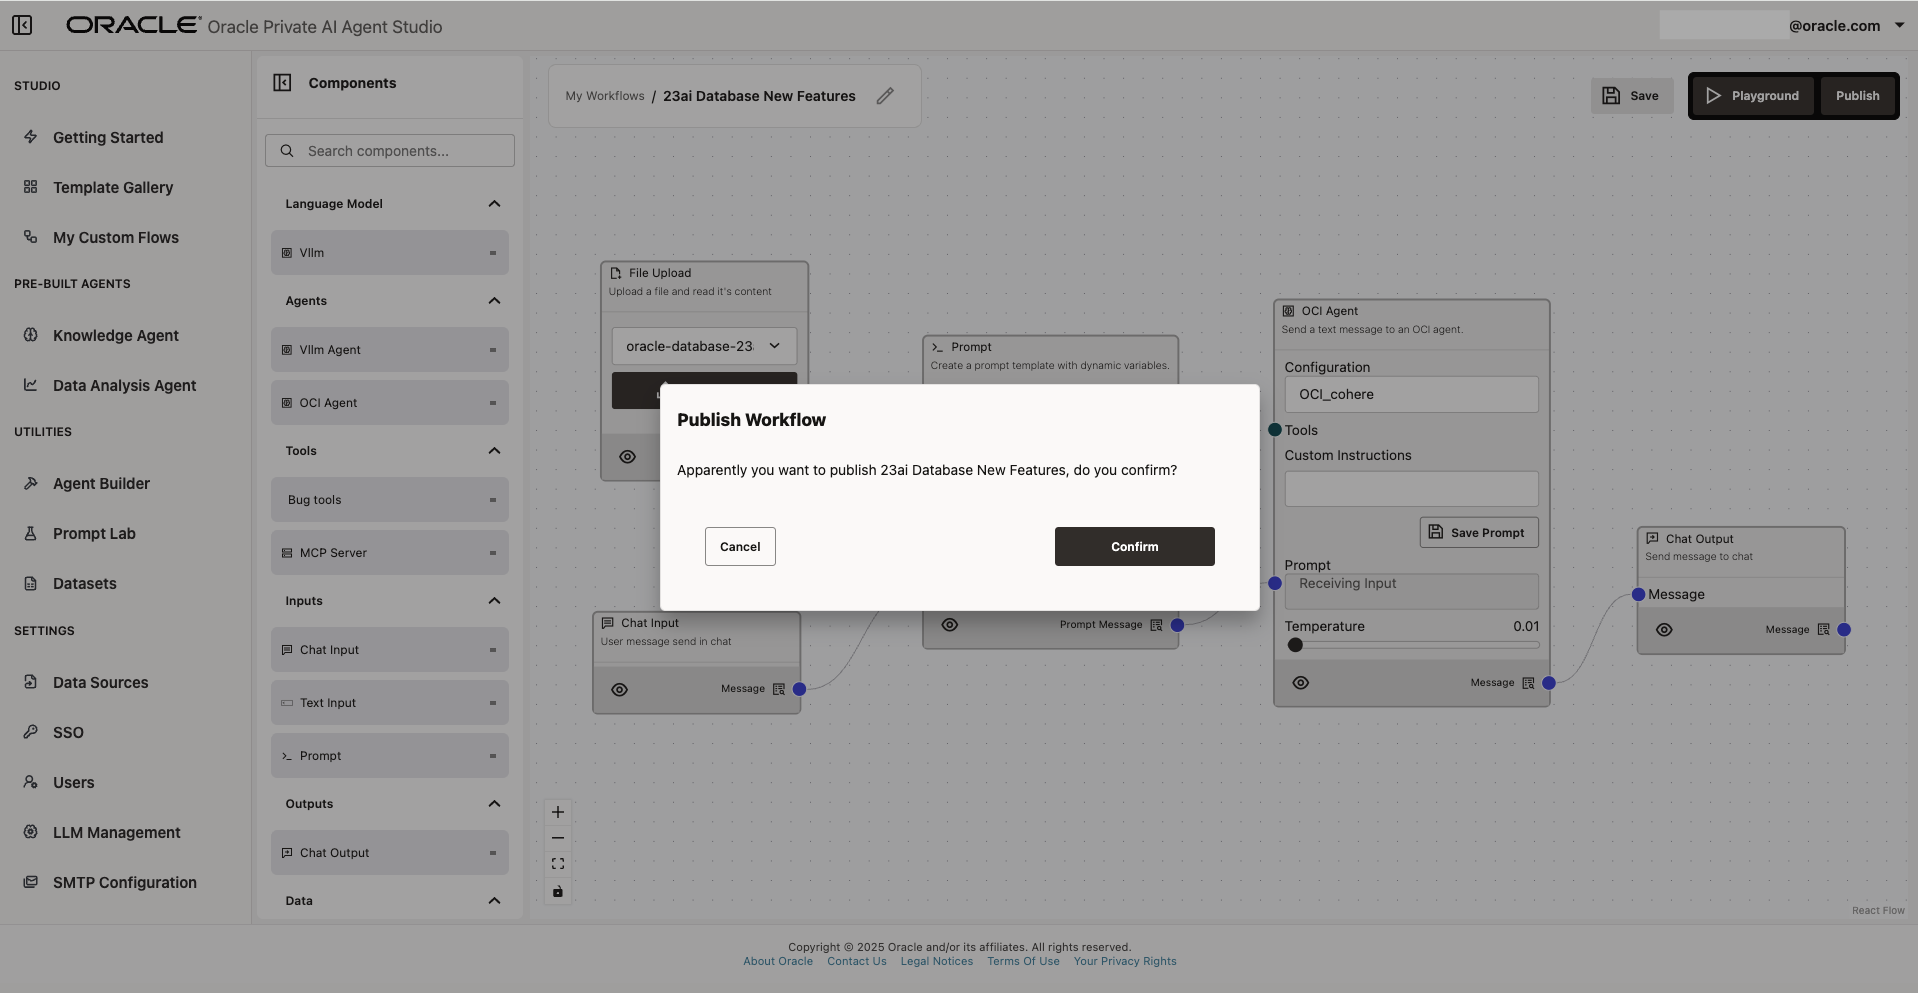
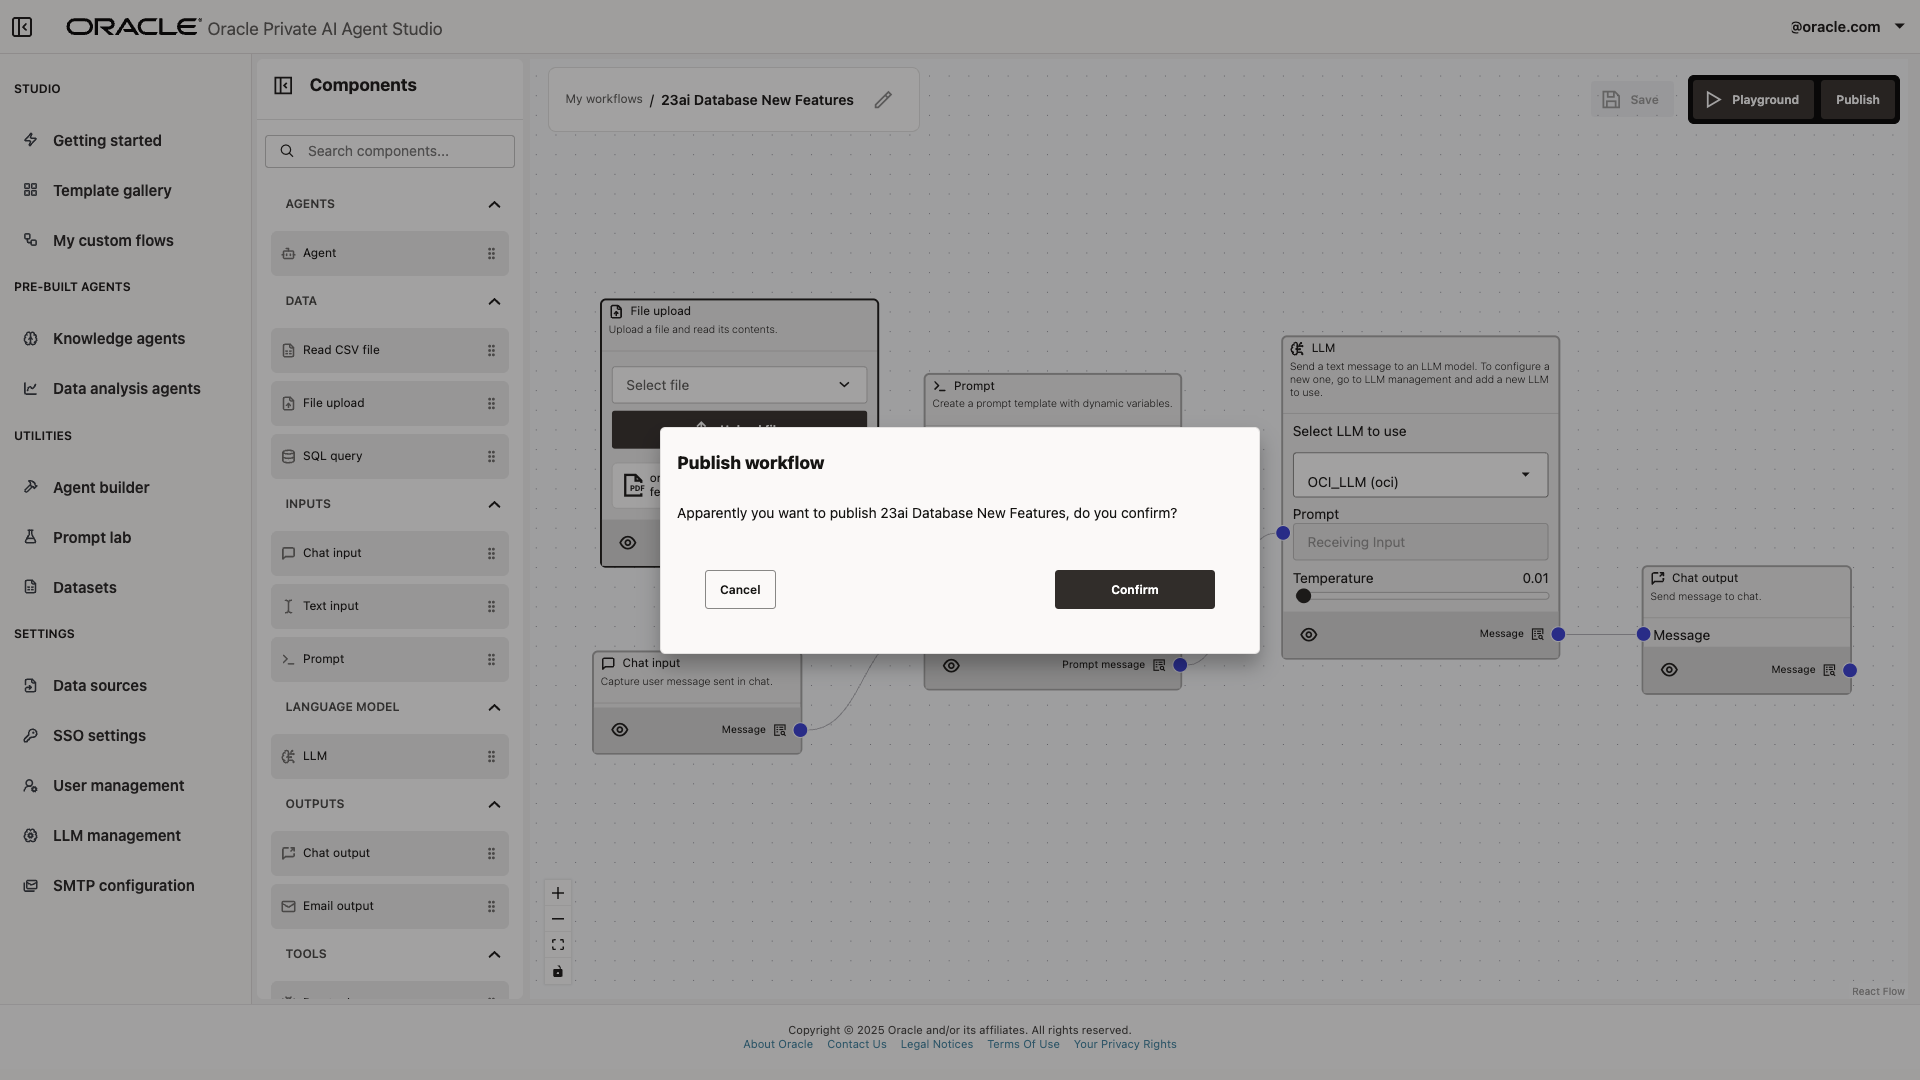
screenshots updated to reflect UI changes

diff --git a/from-zero-to-AI-agent-hero-with-private-ai-agent-studio/lab7/lab7.md b/from-zero-to-AI-agent-hero-with-private-ai-agent-studio/lab7/lab7.md
@@ -27,7 +27,7 @@ The Template Gallery offers a curated collection of pre-built agentic templates 
 
 Templates may include workflows for tasks such as document summarization, meeting note extraction, content transformation, and more. You can browse, search, and import any template that fits your needs, customizing them as needed with minimal configuration.
 
-![Main dashboard of Oracle Private AI Agent Studio with the left navigation panel expanded. The Template Gallery option under the Studio section is highlighted, and the Get Started page is displayed with pre-built agent options and a quick start guide on the right.](images/left_panel_template_gallery.png)
+![Main dashboard of Oracle Private AI Agent Studio with the left navigation panel expanded. The Template Gallery option under the Studio section is highlighted, and the Get Started page is displayed with pre-built agent options and a quick start guide on the right.](images/get_started_template_gallery.png)
 
 1. Open Oracle Private AI Agent Studio and log in. In the sidebar, click **Template Gallery**.
 
@@ -43,24 +43,17 @@ Templates may include workflows for tasks such as document summarization, meetin
 
     ![Edit Details modal dialog open in Agent Builder, showing fields to edit the name and description of the custom flow. The background displays the workflow editor with nodes and connections, while the modal has options to cancel or save changes.](images/edit_details.png)
 
-4. You are also able modify the workflow components to suit your needs. For instance, you can remove a node by selecting it and pressing Delete, and you can add a new node (such as an LLM or agent) by dragging it from the palette and configuring it as needed.
+4. When you import a new workflow, make sure to select your desired LLM provider. You can add different LLM providers on the LLM management section.
 
-    ![Agent Builder workflow for pdf-to-blog showing the Vllm node highlighted with a red 'delete' label, indicating it is selected for deletion. Other nodes include File Upload, Prompt, Chat Input, and Chat Output, all connected in sequence.](images/pdf_to_blog_4a.png)
+    ![Agent Builder workflow for pdf-to-blog showing a dropdown menu with an option labeled as OCI_LLM (oci).](images/select_LLM.png)
 
-    ![Agent Builder workflow for pdf-to-blog showing an arrow from the OCI Agent component in the side panel to a newly added OCI Agent node in the workspace. The node's configuration field is highlighted, and it is connected in sequence after the Prompt node, replacing the previous Vllm node.](images/pdf_to_blog_4b.png)
+5. Some templates are designed to process files as inputs, such as PDF files. If the template requires it, use the **Upload File** function to select your file.
 
-    For any workflow, make sure you supply an LLM configuration name that matches one set up in your environment.
-    Connect nodes by dragging from the output of one node to the input of another as instructed.
+    ![Agent Builder workflow showing the File Upload node's, with a PDF file highlighted. The workflow connects File Upload and Chat Input nodes to a Prompt node, which links to an OCI Agent node and then to a Chat Output node.](images/select_placeholder.png)
 
-    ![Agent Builder workflow showing the nodes being connected. The output of the Prompt node is actively connected to the Prompt input of the OCI Agent node, indicated by highlighted connection points and an arrow. Other nodes include File Upload, Chat Input, and Chat Output.](images/pdf_to_blog_4c.png)
+    You are also able modify the workflow components to suit your needs. For instance, you can remove a node by selecting it and pressing Delete, and you can add a new node by dragging it from the palette and configuring it as needed.
 
-    ![Agent Builder workflow for pdf-to-blog structure showing fully connected nodes: File Upload and Chat Input feed into the Prompt node, which connects to the OCI Agent node, and then to the Chat Output node. All nodes are configured and linked in a sequential flow.](images/pdf_to_blog_4d.png)
-
-5. Some templates are designed to process files as inputs, such as PDF files. If the template requires it, use the **Upload File** function, select your file, and choose it from the dropdown.
-
-    ![Agent Builder workflow showing the File Upload node's dropdown expanded to select a file, with a PDF file highlighted. The workflow connects File Upload and Chat Input nodes to a Prompt node, which links to an OCI Agent node and then to a Chat Output node.](images/select_placeholder.png)
-
-6. Click Publish to deploy your customized workflow.
+6. Click **Save** and then **Publish** to deploy your customized workflow.
 
     ![Publish Workflow confirmation dialog open in Agent Builder, asking the user to confirm publishing the '23ai Database New Features' workflow. The dialog has Cancel and Confirm buttons, overlaying the workflow editor with connected nodes for File Upload, Prompt, OCI Agent, and Chat Output.](images/publish_workflow.png)
 
@@ -108,7 +101,7 @@ In this task you will create a simple workflow to gain hands-on experience with 
 1. **Open Oracle Private AI Agent Studio and log in.**
     In the sidebar, click **Agent Builder**.
 
-    ![Main dashboard of Oracle Private AI Agent Studio with the left navigation panel expanded. The Agent Builder option under the Utilities section is highlighted, and the Get Started page is displayed with pre-built agent options and a quick start guide on the right.](images/left_panel_agent_builder.png)
+    ![Main dashboard of Oracle Private AI Agent Studio with the left navigation panel expanded. The Agent Builder option under the Utilities section is highlighted, and the Get Started page is displayed with pre-built agent options and a quick start guide on the right.](images/get_started_agent_builder.png)
 
     ![Agent Builder screen showing a components panel on the left with categories such as Language Model, Agents, Tools, Inputs, Outputs, and Data. The main workspace area is blank, and 'Playground' and 'Publish' buttons are in the upper right corner.](images/agent_builder.png)
 
@@ -116,7 +109,7 @@ In this task you will create a simple workflow to gain hands-on experience with 
 
     On the left side of the canvas, you will find the available nodes. Drag an Agent node (such as OCI Agent or vLLM Agent) onto the canvas. Configure it with an LLM configuration name from your environment.
 
-    ![Agent Builder screen showing step 2, adding an OCI Agent node. A red arrow curves from the OCI Agent option in the components panel on the left to a newly added OCI Agent node on the workspace. The node configuration panel displays fields for configuration, tools, custom instructions, prompt, and temperature.](images/step2.png)
+    ![Agent Builder screen showing step 2, adding an Agent node. A red arrow curves from the  Agent option in the components panel on the left to a newly added Agent node on the workspace. The node configuration panel displays fields for configuration, tools, custom instructions, prompt, and temperature.](images/step2.png)
 
     On the top left corner of the canvas type a name for the workflow, such as "Scientific Paper Summarizer".
 
@@ -124,13 +117,13 @@ In this task you will create a simple workflow to gain hands-on experience with 
 
     Repeat the process and add a **Chat Output** node. On the Chat Output node, click on the blue edge and drag it until it connects with the right edge of the OCI/vLLM Agent node edge, as shown below.
 
-    ![Agent Builder screen showing step 3, adding and connecting a Chat Output node to the workflow. A red arrow connects the Message output of the OCI Agent node to the Message input of the Chat Output node, with both nodes visible and highlighted connection points.](images/step3a.png)
+    ![Agent Builder screen showing step 3, adding and connecting a Chat Output node to the workflow. A red arrow connects the Message output of the Agent node to the Message input of the Chat Output node, with both nodes visible and highlighted connection points.](images/step3a.png)
 
     If you need to remove a connection between two nodes, simply click the connecting line and press Delete on you keyboard.
 
     Add a **Chat Input** node as well, but do not connect it for now.
 
-    ![Agent Builder screen showing an arrow from the Chat Input component in the left panel to a newly placed Chat Input node in the workspace. The workflow contains three nodes: Chat Input, OCI Agent, and Chat Output, with the OCI Agent connected to the Chat Output.](images/step3b.png)
+    ![Agent Builder screen showing an arrow from the Chat Input component in the left panel to a newly placed Chat Input node in the workspace. The workflow contains three nodes: Chat Input, Agent, and Chat Output, with the Agent connected to the Chat Output.](images/step3b.png)
 
 4. Enrich prompts.
 
@@ -141,15 +134,15 @@ In this task you will create a simple workflow to gain hands-on experience with 
     >Given the provided text, extract all key information and important details. Use this information to automatically generate a easy to understand summary.
     Provided text : {{user_input}}
 
-    ![Agent Builder screen showing step 4a, adding a Prompt node to the workflow. A red arrow points from the Prompt component in the left panel to a newly created Prompt node placed between the Chat Input and OCI Agent nodes in the workspace. The Prompt node features a template input and save button.](images/step4a.png)
+    ![Agent Builder screen showing step 4a, adding a Prompt node to the workflow. A red arrow points from the Prompt component in the left panel to a newly created Prompt node placed between the Chat Input and Agent nodes in the workspace. The Prompt node features a template input and save button.](images/step4a.png)
 
-    ![Agent Builder screen showing step 4b, with a Prompt node added between the Chat Input and OCI Agent nodes. The Prompt node contains a filled-in template field describing instructions to generate an easy-to-understand summary, including a variable for user input.](images/step4b.png)
+    ![Agent Builder screen showing step 4b, with a Prompt node added between the Chat Input and Agent nodes. The Prompt node contains a filled-in template field describing instructions to generate an easy-to-understand summary, including a variable for user input.](images/step4b.png)
 
-    ![Agent Builder screen showing step 4c, a canvas displaying a workflow with File Upload, Prompt, OCI Agent, and Chat Output nodes. The Prompt node receives input from both the File Upload and Chat Input nodes, and its output is connected to the Prompt input of the OCI Agent. Path connections and active connection points are highlighted in the workflow.](images/step4c.png)
+    ![Agent Builder screen showing step 4c, a canvas displaying a workflow with File Upload, Prompt, Agent, and Chat Output nodes. The Prompt node receives input from both the File Upload and Chat Input nodes, and its output is connected to the Prompt input of the Agent. Path connections and active connection points are highlighted in the workflow.](images/step4c.png)
 
     Connect the nodes as illustrated so that the Chat Input feeds into the Prompt, which feeds into the agent node, which connects to the Chat Output.
 
-    ![Agent Builder screen showing step 4d, with the Chat Input node connected to the Prompt node, the Prompt node connected to the OCI Agent node, and the OCI Agent node connected to the Chat Output node. Arrows indicate the workflow sequence through all nodes, and the Prompt template field is populated with summary instructions and a user input variable.](images/step4d.png)
+    ![Agent Builder screen showing step 4d, with the Chat Input node connected to the Prompt node, the Prompt node connected to the Agent node, and the Agent node connected to the Chat Output node. Arrows indicate the workflow sequence through all nodes, and the Prompt template field is populated with summary instructions and a user input variable.](images/step4d.png)
 
 5. Save and test.
 
@@ -167,7 +160,7 @@ Once comfortable, try designing a workflow of your own—tailor it to your data,
 
 This concludes the current module. You now know how to use the Template Gallery to leverage pre-build workflows and hot to design your own custom workflows using the Agent Builder. These tools enable you to build, test and deploy advanced AI workflows tailored for your needs.
 
-We hope this LiveLab has been illustrative and helpful to you in exploring and learning all of the features of Oracle Private AI Agent Studio. Explore additional modules for further discoveries and learning opportunities. You may now **proceed to the next lab**.
+We hope this LiveLab has been illustrative and helpful to you in exploring and learning all of the features of Oracle Private AI Agent Studio. Explore additional modules for further discoveries and learning opportunities.
 
 ## Acknowledgements
 

diff --git a/from-zero-to-AI-agent-hero-with-private-ai-agent-studio/lab5/lab5.md b/from-zero-to-AI-agent-hero-with-private-ai-agent-studio/lab5/lab5.md
@@ -27,13 +27,13 @@ In this task you will create a new blank Knowledge Agent.
 
 1. Open Oracle Private AI Agent Studio and log in. In the sidebar, click the **Knowledge Agent** section.
 
-    ![Main dashboard of Oracle Private AI Agent Studio with the left navigation panel expanded. The Knowledge Agent option under the Pre-built Agents section is highlighted, and the Get Started page is displayed with pre-built agent options and a quick start guide on the right.](images/left_panel.png)
+    ![Main dashboard of Oracle Private AI Agent Studio with the left navigation panel expanded. The Knowledge Agent option under the Pre-built Agents section is highlighted, and the Get Started page is displayed with pre-built agent options and a quick start guide on the right.](images/get_started_kagent.png)
 
-    ![Knowledge Agents screen displaying a search bar and a card for the Oracle Private AI Agent Studio Knowledge Assistant, which is described as a knowledge base consisting of documentation for Oracle Private AI Agent Studio. A button for creating a blank knowledge agent from scratch appears at the bottom.](images/knowledge_agent.png)
+    ![Knowledge Agents screen displaying a search bar, a card to start from scratch and create a blank knowledge agent from scratch, and a card for the Oracle Private AI Agent Studio Knowledge Assistant, which is described as a knowledge base consisting of documentation for Oracle Private AI Agent Studio.](images/knowledge_agent.png)
 
-2. At the bottom of the screen click **Blank Knowledge Agent**.
+2. Click **Blank Knowledge Agent**.
 
-    You will be prompted to choose a Web source data source. You can select the one created on Lab 4 or create a new one. This data source will be knowledge base for this agent. Click **Next** to continue.
+    You will be prompted to select a data source. You can either choose to add a Web Source or a File System. For this tutorial we will use the Web Source one created on Lab 4. This data source will be knowledge base for this agent. Click **Next** to continue.
 
     ![Create Knowledge Agent screen showing step 1 of 3, with options to select data sources for the agent to learn from. The Web Sources table lists available sources by name, endpoint, and status, and includes a button to add a new web source. 'Next' and 'Cancel' buttons appear at the bottom of the screen.](images/kbase_config.png)
 

diff --git a/from-zero-to-AI-agent-hero-with-private-ai-agent-studio/lab3/lab3.md b/from-zero-to-AI-agent-hero-with-private-ai-agent-studio/lab3/lab3.md
@@ -25,9 +25,9 @@ By the end of this lab, you will be able to:
 
 ## Task 1: Register SSO credentials on Oracle Private AI Agent Studio
 
-Open Oracle Private AI Agent Studio and log in. In the sidebar, click the **SSO** section.
+Open Oracle Private AI Agent Studio and log in. In the sidebar, click the **SSO settings** section.
 
-![Main dashboard of Oracle Private AI Agent Studio with the left navigation panel expanded. The SSO option under the Settings section is highlighted, and the Get Started page is displayed with pre-built agent options and a quick start guide on the right.](images/left_panel_sso.png)
+![Main dashboard of Oracle Private AI Agent Studio with the left navigation panel expanded. The SSO option under the Settings section is highlighted, and the Get Started page is displayed with pre-built agent options and a quick start guide on the right.](images/get_started_sso.png)
 
 ![SSO Settings screen in Oracle Private AI Agent Studio showing fields to configure OAuth Provider for Single Sign-On. The fields include provider, connection name, client id, client secret, SSO API base URL, access token URL, authorize URL, user URL, server metadata URL, log out URL, and a redirect URL. The 'Add Provider' button is displayed at the bottom right of the form.](images/sso_page.png)
 
@@ -48,7 +48,7 @@ Click **Add Provider**. A success message will be displayed. You can confirm the
 
 In the sidebar, click the **User Management** section.
 
-![Main dashboard of Oracle Private AI Agent Studio with the left navigation panel expanded. The Users option under the Settings section is highlighted, and the Get Started page is displayed with pre-built agent options and a quick start guide on the right.](images/left_panel_users.png)
+![Main dashboard of Oracle Private AI Agent Studio with the left navigation panel expanded. The Users option under the Settings section is highlighted, and the Get Started page is displayed with pre-built agent options and a quick start guide on the right.](images/get_started_users.png)
 
 This page provides a centralized dashboard for managing users in Oracle Private AI Agent Studio.
 

diff --git a/from-zero-to-AI-agent-hero-with-private-ai-agent-studio/lab6/lab6.md b/from-zero-to-AI-agent-hero-with-private-ai-agent-studio/lab6/lab6.md
@@ -30,11 +30,11 @@ In this task, you will create a custom Data Analysis Agent to work directly with
 
 1. Open Oracle Private AI Studio and log in. In the sidebar, click the **Data Analysis Agent** section.
 
-    ![Main dashboard of Oracle Private AI Agent Studio with the left navigation panel expanded. The Data Analysis Agent option under the Pre-built Agents section is highlighted, and the Get Started page is displayed with pre-built agent options and a quick start guide on the right.](images/left_panel.png)
+    ![Main dashboard of Oracle Private AI Agent Studio with the left navigation panel expanded. The Data Analysis Agent option under the Pre-built Agents section is highlighted, and the Get Started page is displayed with pre-built agent options and a quick start guide on the right.](images/get_started_data_analysis.png)
 
-    ![Data Analysis Agents screen displaying a search bar and a message indicating that no agents are available yet. A button for creating a new agent and a blank data analysis agent from scratch are displayed at the bottom.](images/data_analysis.png)
+    ![Data Analysis Agents screen displaying a search bar and a card for creating a blank data analysis agent from scratch.](images/data_analysis.png)
 
-2. Click the **Create Data Analysis Agent** button. A setup form will appear, allowing you to select the data source for this agent. (Note that, at this time, Data Analysis Agents only support a single table for analysis)
+2. Click the **Blank Data Analysis Agent** button. A setup form will appear, allowing you to select the data source for this agent. (Note that, at this time, Data Analysis Agents only support a single table or view for analysis)
 
     ![Create Data Analysis Agent screen showing step 1 of 3, allowing selection of database sources. Users can select a database and table from dropdown menus, add a new database source, and proceed to the next step or cancel. A note indicates only a single table is supported. 'Next' and 'Cancel' buttons appear at the bottom of the screen.](images/data_analysis_data_source.png)
 

diff --git a/from-zero-to-AI-agent-hero-with-private-ai-agent-studio/lab4/lab4.md b/from-zero-to-AI-agent-hero-with-private-ai-agent-studio/lab4/lab4.md
@@ -28,7 +28,7 @@ This feature enables the integration with enterprise databases like Oracle Datab
 
 1. Open Oracle Private AI Agent Studio and log in. In the sidebar, click the **Data Sources** section.
 
-    ![Main dashboard of Oracle Private AI Agent Studio with the left navigation panel expanded. The Data Sources option under the Settings section is highlighted, and the Get Started page is displayed with pre-built agent options and a quick start guide on the right.](images/left_panel.png)
+    ![Main dashboard of Oracle Private AI Agent Studio with the left navigation panel expanded. The Data Sources option under the Settings section is highlighted, and the Get Started page is displayed with pre-built agent options and a quick start guide on the right.](images/get_started_datasources.png)
 
 2. Click the **Add Data Source** button. A setup form will be displayed, allowing you to add Web Sources, Databases or REST APIs. For this task, select Database.
 
